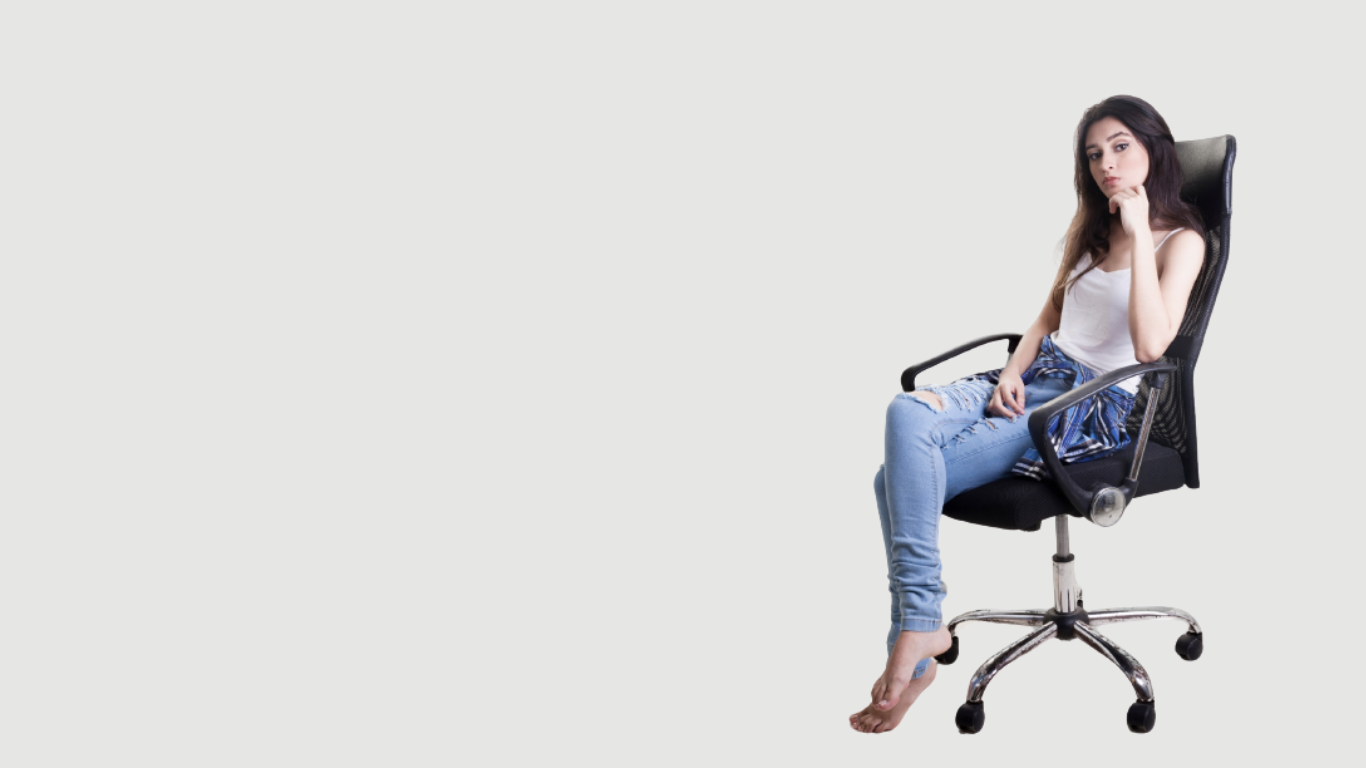
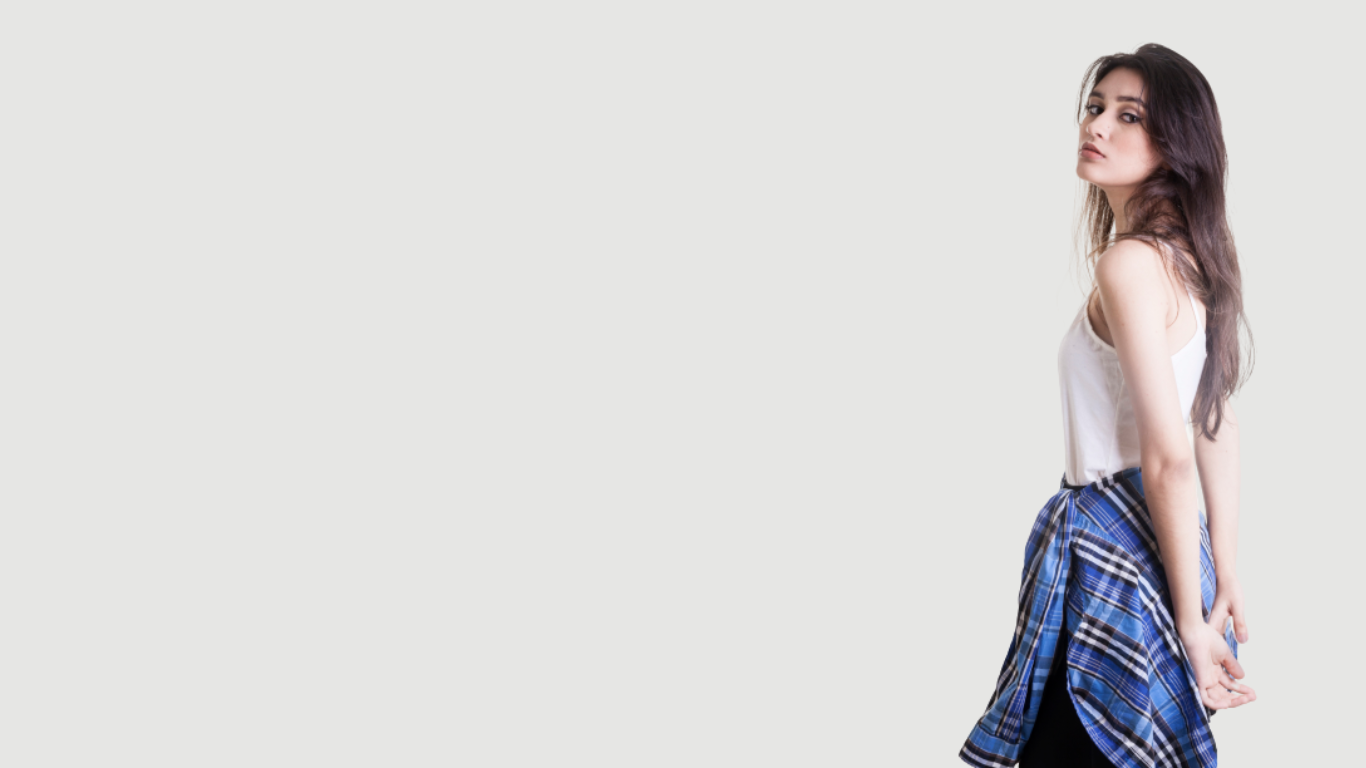
settings

Changed region(s): [[0.6149, 0.0312, 0.9224, 1.0]]

diff --git a/index.html b/index.html
@@ -47,7 +47,7 @@
   <section id="hero" class="d-flex flex-column justify-content-center">
     <div class="container" data-aos="zoom-in" data-aos-delay="100">
       <h1>Débora Lima</h1>
-      <p>I'm <span class="typed" data-typed-items="Developer, Scientist Computer"></span></p>
+      <p>I'm <span class="typed" data-typed-items="Developer, Computer Scientist"></span></p>
       <div class="social-links">
         <a href="https://t.me/deboradls" class="telegram"><i class="bx bxl-telegram"></i></a>
         <a href="https://www.instagram.com/deboradls" class="instagram"><i class="bx bxl-instagram"></i></a>
@@ -75,7 +75,7 @@
             <img src="/assets/img/debora-about.jpg" class="img-fluid" alt="My profile picture">
           </div>
           <div class="col-lg-8 pt-4 pt-lg-0 content">
-            <h3 class="mobile-center"></h3class> Scientist Computer &amp; Developer.</h3>
+            <h3 class="mobile-center"></h3class> Developer &amp; Computer Scientist.</h3>
             <div class="row">
               <div class="col-lg-6">
                 <ul>
@@ -95,7 +95,7 @@
             <div style="text-align: justify;">
             <p>
               I am currently in the first semester of the Bachelor of Science in Computer Science program at the Federal Institute of Education, Science, and Technology of Ceará (IFCE). My long-term goal is to complete my undergraduate studies and continue my education abroad, broadening my horizons and gaining international experience.
-I had the opportunity to participate in the Systems Development Center (NDS), a college laboratory, where I became involved in the DevOps sector, enabling me to deepen my knowledge and acquire practical skills related to software.
+I had the opportunity to participate in the Núcleo de Desenvolvimento de Sistemas (NDS), a college laboratory, where I became involved in the DevOps sector, enabling me to deepen my knowledge and acquire practical skills related to software.
 I have knowledge in programming languages such as C, HTML, CSS, JavaScript, as well as experience with Visual Studio Code (VS Code), Linux, Git, and GitHub.
             </p>
           </div>

diff --git a/style.css b/style.css
@@ -228,7 +228,7 @@ h6 {
 #hero {
   width: 100%;
   height: 100vh;
-  background: url("/assets/img/deb-hero.png") top right no-repeat;
+  background: url("assets/img/debora-hero.png") top right no-repeat;
   background-size: cover;
   position: relative;
 }
